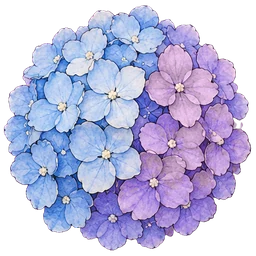
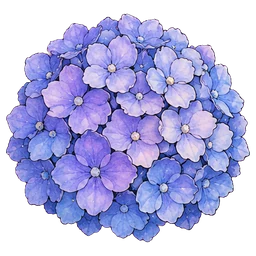
feat: tiny hydrangea on a shelf at the bottom of the margin, no split flower head

diff --git a/components/room/margin/margin.module.css b/components/room/margin/margin.module.css
@@ -840,16 +840,45 @@
 }
 
 /* ---- the hydrangea ---- */
+/* it stands on a little aluminium shelf at the bottom of the screen: the margin is sticky, so the
+   box runs from the top of the margin to the bottom of the viewport */
 .hydrangea {
-  display: grid;
-  justify-items: center;
+  display: flex;
+  flex-direction: column;
+  justify-content: flex-end;
+  align-items: center;
+  height: calc(100dvh - 6.6rem - 1.6rem);
+  min-height: 220px;
 }
 
 .plant {
   position: relative;
-  width: 250px;
+  z-index: 1;
+  width: 124px;
   aspect-ratio: 1;
+  margin-bottom: -5px;
   transform-origin: 50% 92%;
+}
+
+.shelf {
+  composes: metal;
+  position: relative;
+  width: 176px;
+  height: 11px;
+  border-radius: 4px;
+}
+
+/* where the pot's saucer touches the shelf */
+.shelf::before {
+  content: "";
+  position: absolute;
+  left: 50%;
+  top: 1px;
+  width: 64px;
+  height: 7px;
+  margin-left: -32px;
+  border-radius: 50%;
+  background: radial-gradient(closest-side, rgba(60, 40, 20, 0.32), transparent);
 }
 
 .plant:hover {

diff --git a/components/room/margin/Hydrangea.tsx b/components/room/margin/Hydrangea.tsx
@@ -5,8 +5,9 @@ import styles from "./margin.module.css";
 import { useReadingProgress } from "./useReadingProgress";
 
 /**
- * The hydrangea from the room, in its grey pot. One flower head opens for each stretch of the post
- * you read; the last one at the end. (Art: prompts/margin-hydrangea*.txt.)
+ * The hydrangea from the room, tiny, in its grey pot on a shelf at the bottom of the screen. One
+ * flower head opens for each stretch of the post you read; the last one at the end.
+ * (Art: prompts/margin-hydrangea*.txt.)
  */
 export function Hydrangea({ target }: { target: string }) {
   const progress = useReadingProgress(target);
@@ -29,6 +30,7 @@ export function Hydrangea({ target }: { target: string }) {
           />
         ))}
       </div>
+      <i className={styles.shelf} aria-hidden="true" />
     </div>
   );
 }

diff --git a/components/room/tools/margin.py b/components/room/tools/margin.py
@@ -131,7 +131,10 @@ def hydrangea():
     ox, oy = (side - (x1 - x0)) // 2, side - 12 - (y1 - y0)
     canvas[oy : oy + y1 - y0, ox : ox + x1 - x0] = plant[y0:y1, x0:x1]
     save(canvas, "hydrangea", (640, 640))
-    flowers = align([largest(c) for c in cells(keyed("hydrangea-heads.png"), 3, 2)], anchor="centre", pad=4)
+    # head 6 of the first painting is split half blue, half violet: use the even violet one (2) from
+    # the second painting instead
+    heads = cells(keyed("hydrangea-heads.png"), 3, 2)[:5] + cells(keyed("hydrangea-heads-2.png"), 3, 2)[1:2]
+    flowers = align([largest(c) for c in heads], anchor="centre", pad=4)
     for i, flower in enumerate(flowers):
         save(flower, f"bloom-{i + 1}", (256, 256))
     heads = []
